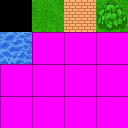
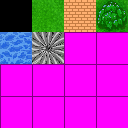
remove pacman class from play state

Changed region(s): [[0.25, 0.25, 0.5, 0.5], [0.75, 0.0, 1.0, 0.25]]

diff --git a/src/assignment3815ICT/zhiyuan/game/states/PlayState.java b/src/assignment3815ICT/zhiyuan/game/states/PlayState.java
@@ -9,7 +9,6 @@ import java.awt.image.BufferedImage;
 
 public class PlayState extends State {
 
-    private PacMan pacMan;
     private Map map;
 
     // constructor
@@ -17,20 +16,15 @@ public class PlayState extends State {
         super(gameHandler);
         map = new Map(gameHandler,"res/map.txt");
         gameHandler.setMap(map);
-        pacMan = new PacMan(gameHandler, 645, 356);
-
     }
 
     @Override
     public void update() {
         map.update();
-        pacMan.update();
     }
 
     @Override
     public void render(Graphics graphics) {
         map.render(graphics);
-        pacMan.render(graphics);
-//        pacMan.move();
     }
 }
